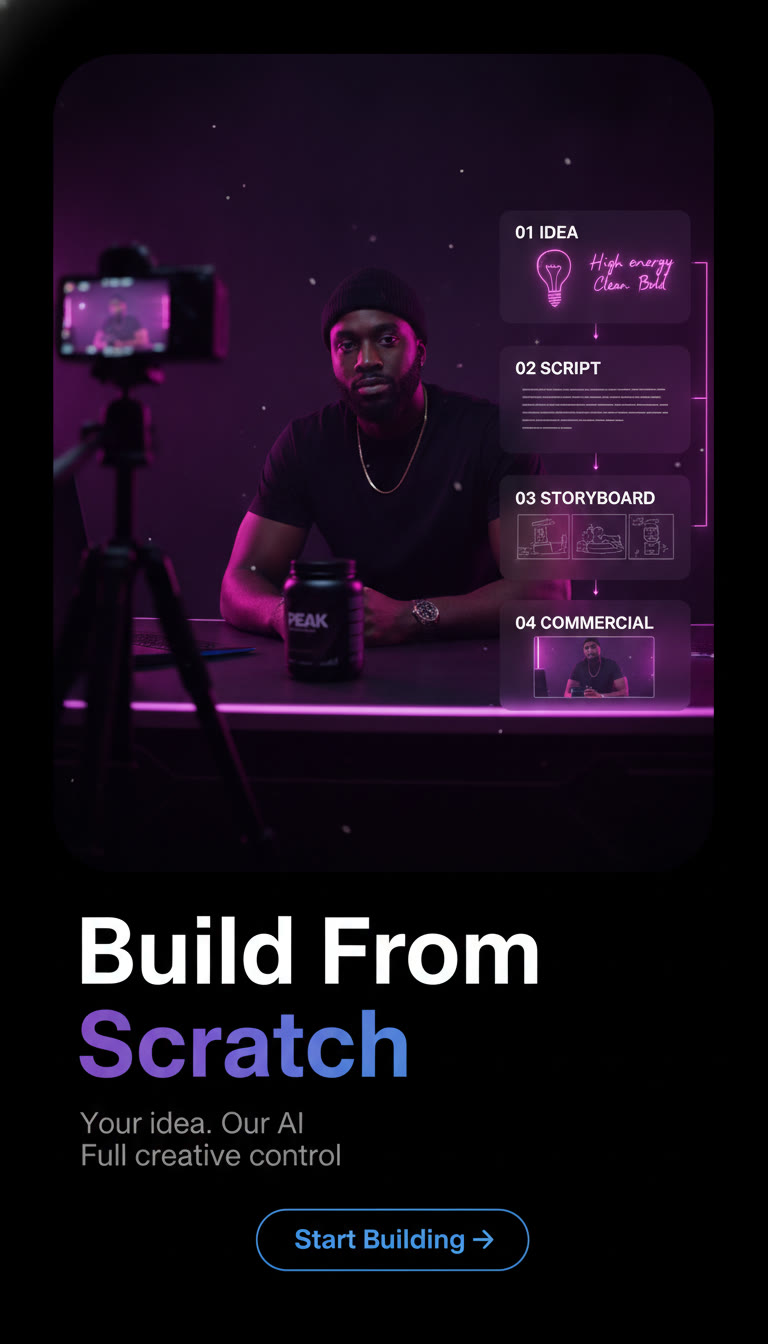
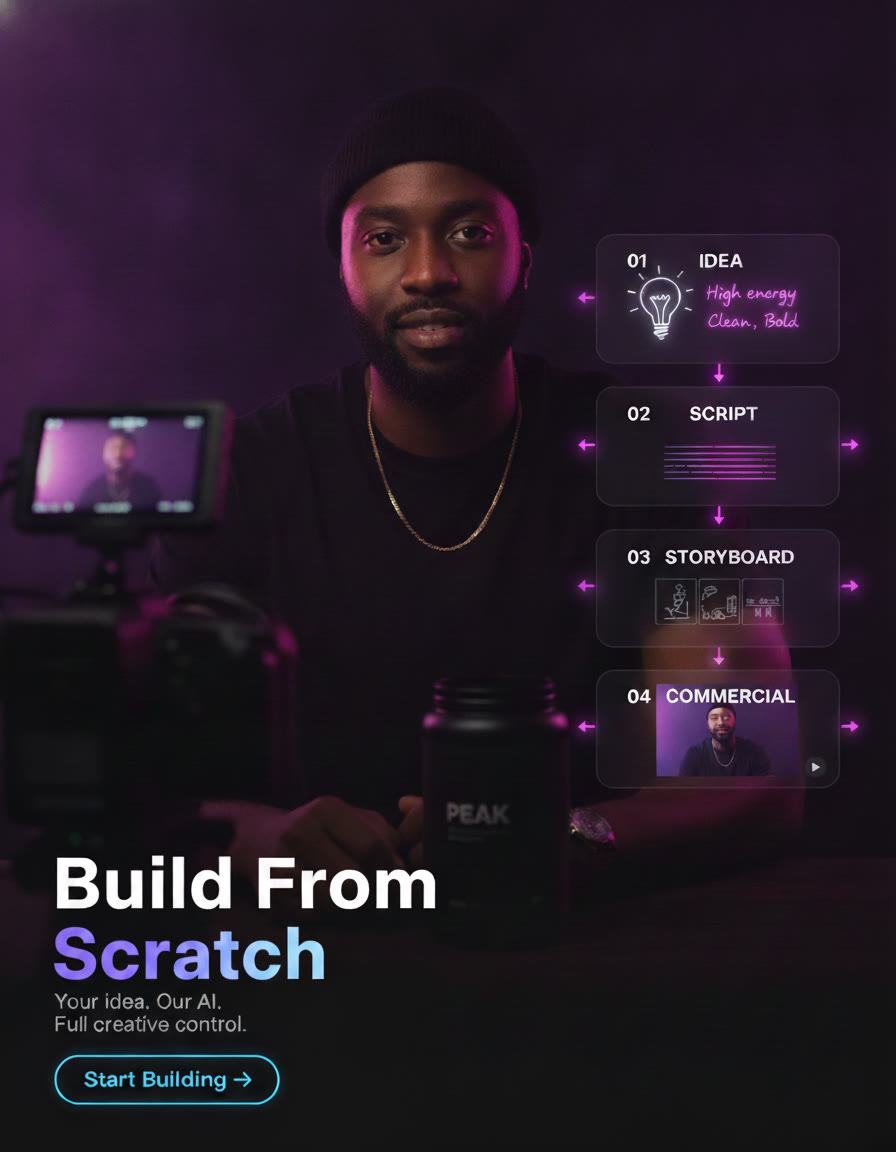
Redo dashboard poster thumbnails at the real card footprint (4:5)
The previous poster set was generated at 9:16, which made the hero cards
far taller than the original ~380x460 slots and read as thin imitations
of the reference designs. This replaces all three with 4:5 generations
built from composition-first prompts: hero subject large and tightly
cropped, UI tiles overlapping the subject with glass depth, zero dead
space, and every text string pinned character-for-character (with
targeted single-word color edits where the first render missed the
headline gradient). PosterCard now pins aspect-[4/5] + object-cover so
the rendered footprint always matches the original card size.

Claude-Session: https://claude.ai/code/session_01PKtigZCTyQ5N71AygMP5WT

diff --git a/src/pages/Dashboard.tsx b/src/pages/Dashboard.tsx
@@ -29,7 +29,7 @@ function PosterCard({ to, src, alt }: { to: string; src: string; alt: string }) 
       to={to}
       className="group relative overflow-hidden rounded-3xl border border-white/[0.08] bg-black shadow-card transition-all duration-300 hover:-translate-y-1 hover:border-fire-start/40 hover:shadow-fire-glow"
     >
-      <img src={src} alt={alt} className="h-auto w-full transition-transform duration-500 group-hover:scale-[1.02]" />
+      <img src={src} alt={alt} className="aspect-[4/5] w-full object-cover transition-transform duration-500 group-hover:scale-[1.02]" />
     </Link>
   )
 }